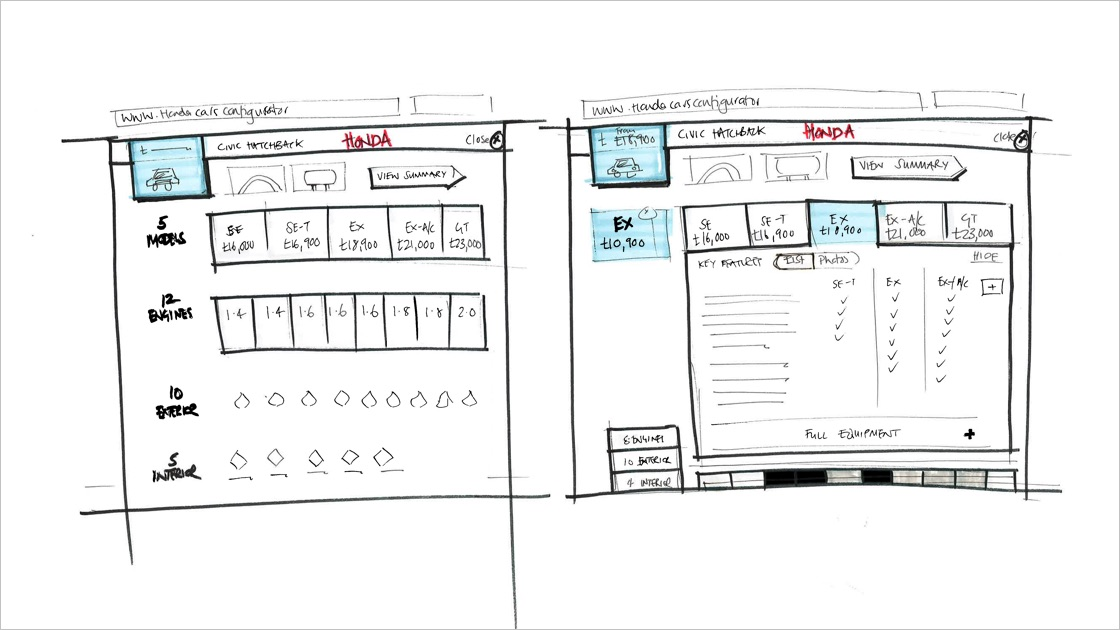
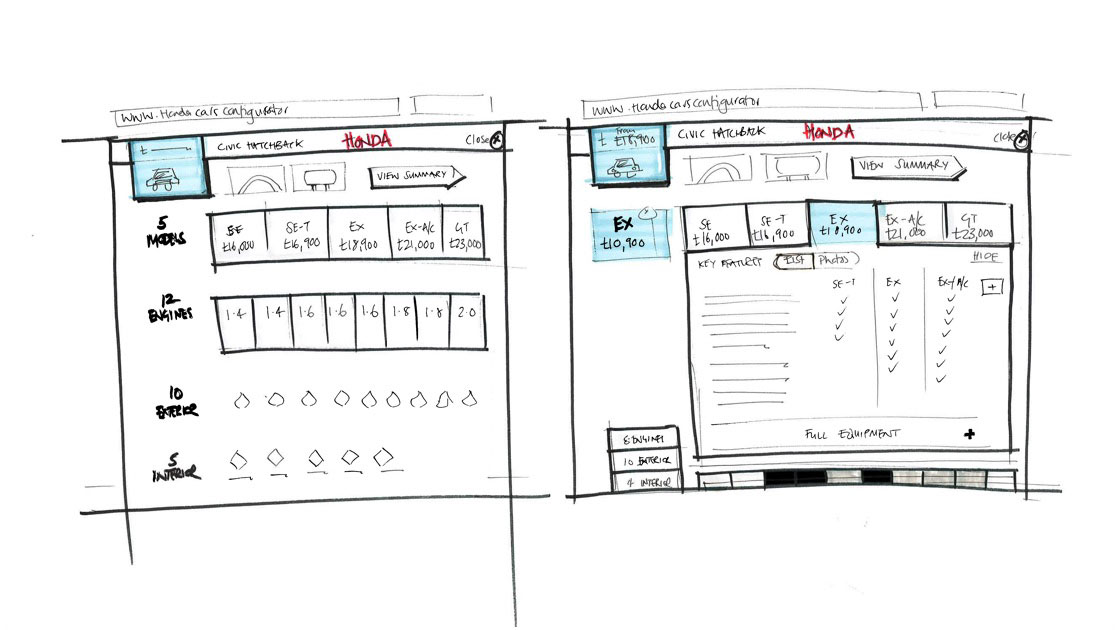
Removed key line from image

Changed region(s): [[0.0, 0.9952, 1.0, 1.0]]

diff --git a/css/reset.css b/css/reset.css
@@ -24,8 +24,8 @@ p a:hover { color: #131313; text-decoration: none; border-bottom: 1px solid #131
 em { font-style: italic; }
 strong { font-weight: 700; }
 small { font-family: "Source Serif Pro", Georgia, serif; font-size: 14px; font-style: normal; font-weight: 600; line-height: 21px;}
-figcaption { color: #666; font-family: "Source Sans Pro", Georgia, serif; font-size: 14px; font-style: normal; font-weight: 300; line-height: 18px; letter-spacing: 0.5px;}
-img { max-width: 100%; display: block; border: 0 none; padding-bottom: 13px }
+figcaption { color: #666; font-family: "Source Sans Pro", Georgia, serif; font-size: 14px; font-style: normal; font-weight: 300; line-height: 18px; letter-spacing: 0.5px; margin-top: 13px;}
+img { border:1px solid #f0f0f0; max-width: 100%; display: block;}
 img.lazy { display: none; }
 
 /*	Blockquotes  */

diff --git a/css/style.css b/css/style.css
@@ -84,8 +84,8 @@
 	#project .link { width: 100% padding-bottom: 78px;}
 	#project .link .mywork { float: left; padding-right: 30px; width: 33.3%; }
 	#project .link .mywork:last-child { padding-right: 0px; margin-bottom: 78px; }
-	.embed-container { position: relative; padding-bottom: 56.25%; height: 0; overflow: hidden; max-width: 100%; margin-bottom: 14px}
-	.embed-container iframe, .embed-container object, .embed-container embed { position: absolute; top: 0; left: 0; width: 100%; height: 100%; }
+	.embed-container { position: relative; padding-bottom: 56.25%; height: 0; overflow: hidden; max-width: 100%; margin-bottom: 0px}
+	.embed-container iframe, .embed-container object, .embed-container embed { border:1px solid #f0f0f0; position: absolute; top: 0; left: 0; width: 100%; height: 100%; }
 
 
 	/* FOOTER */
